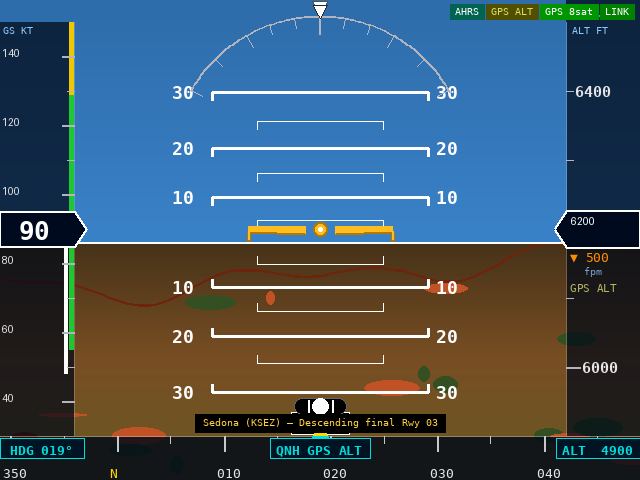
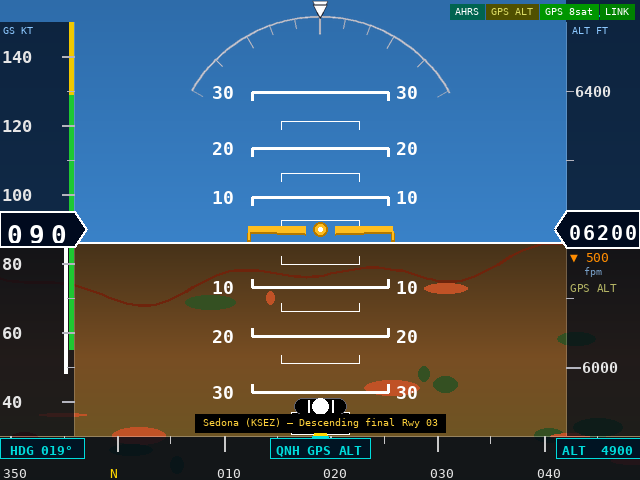
Add rolling-drum readouts, fix pitch ladder width, add AA to arc
- Pitch ladder half-widths: 22%/13% → 14%/8% of AI width (matches GI-275)
- Speed + alt readouts replaced with Veeder-Root rolling-drum function
  - Speed: 3 digits × 22px cells @ 26pt bold
  - Alt: 5 digits × 14px cells @ 20pt bold; units digit animates with speed/alt
- Roll arc (preview): rendered at 2× then LANCZOS-scaled for AA
- Pitch ladder (live): minor lines use pygame.draw.aaline()
- Preview font loading: on-demand cache replaces fixed size list (fixes
  missing 17pt and 24pt falling back to 6pt PIL default)
- All 3 Sedona preview PNGs regenerated

https://claude.ai/code/session_017SH8gTHM3ctk1qfSPqffyG

diff --git a/tools/preview_640x480.py b/tools/preview_640x480.py
@@ -53,23 +53,62 @@ def lerp_color(a, b, t):
     return tuple(int(a[i] + (b[i]-a[i])*t) for i in range(3))
 
 
-def load_fonts():
-    sizes = [10, 11, 13, 14, 15, 16, 18, 20, 22, 26]
-    fonts = {}
-    base = "/usr/share/fonts/truetype/dejavu/DejaVuSansMono"
-    for sz in sizes:
-        for bold in (False, True):
-            suffix = "-Bold" if bold else ""
-            try:
-                fonts[(sz, bold)] = ImageFont.truetype(f"{base}{suffix}.ttf", sz)
-            except Exception:
-                fonts[(sz, bold)] = ImageFont.load_default()
-    return fonts
-
-FNT = load_fonts()
+_fnt_cache: dict = {}
 
 def fnt(size, bold=False):
-    return FNT.get((size, bold), FNT.get((size, False), ImageFont.load_default()))
+    key = (size, bold)
+    if key in _fnt_cache:
+        return _fnt_cache[key]
+    base = "/usr/share/fonts/truetype/dejavu/DejaVuSansMono"
+    suffix = "-Bold" if bold else ""
+    try:
+        _fnt_cache[key] = ImageFont.truetype(f"{base}{suffix}.ttf", size)
+    except Exception:
+        _fnt_cache[key] = ImageFont.load_default()
+    return _fnt_cache[key]
+
+
+def rolling_drum(img, bx, by, bw, bh, value, n_digits, color, font_sz):
+    """
+    Veeder-Root style rolling-drum digit readout.
+    Only the units digit animates continuously; higher digits snap.
+    value: float — fractional part drives unit-digit roll.
+    """
+    char_w = bw // n_digits
+    f = fnt(font_sz, bold=True)
+    try:
+        ref_bbox = f.getbbox("0")
+        ch = ref_bbox[3] - ref_bbox[1]
+        cw_ch = ref_bbox[2] - ref_bbox[0]
+    except Exception:
+        ch = font_sz; cw_ch = font_sz // 2
+
+    col_rgba = color + (255,)
+
+    for col_i in range(n_digits):
+        power = n_digits - 1 - col_i   # 0 = units, 1 = tens, …
+        if power == 0:
+            d_cont = float(value % 10.0)
+        else:
+            d_cont = float((int(value) // (10 ** power)) % 10)
+        d_lo = int(d_cont)
+        frac  = d_cont - d_lo
+        d_hi  = (d_lo + 1) % 10
+
+        scroll = int(frac * bh)
+        tx     = max(0, (char_w - cw_ch) // 2)
+        ty_lo  = (bh - ch) // 2 - scroll
+        ty_hi  = ty_lo + bh
+
+        # Render into a 2× tall cell, then crop to bh (auto-clips scrolled digits)
+        cell   = Image.new('RGBA', (char_w, bh * 2), (0, 0, 0, 0))
+        cd     = ImageDraw.Draw(cell)
+        cd.text((tx, ty_lo), str(d_lo), fill=col_rgba, font=f)
+        cd.text((tx, ty_hi), str(d_hi), fill=col_rgba, font=f)
+
+        cx_pos  = bx + col_i * char_w
+        cropped = cell.crop((0, 0, char_w, bh))
+        img.paste(cropped, (cx_pos, by), cropped)
 
 
 def draw_scene(roll, pitch, hdg, alt, speed, vspeed, ay,
@@ -153,9 +192,10 @@ def draw_scene(roll, pitch, hdg, alt, speed, vspeed, ay,
     # Horizon line
     ai_draw.line([(0, hy), (W*S, hy)], fill=(255,255,255,220), width=2)
 
-    # Pitch ladder — half in display pixels (canvas 1:1 with output)
-    major_half = int(AI_W * 0.22)   # ~108 px
-    minor_half = int(AI_W * 0.13)   # ~64 px
+    # Pitch ladder — half-widths in display pixels
+    # GI-275: major ~14% AI width each side, minor ~8%
+    major_half = int(AI_W * 0.14)   # ~69 px
+    minor_half = int(AI_W * 0.08)   # ~39 px
     fn18 = fnt(18, bold=True)
     for deg in range(-30, 35, 5):
         if deg == 0: continue
@@ -246,8 +286,8 @@ def draw_scene(roll, pitch, hdg, alt, speed, vspeed, ay,
     draw.polygon(pts, fill=(0, 10, 30))
     draw.line(pts + [pts[0]], fill=WHITE, width=2)
     spd_col = RED if speed > VNE else (YELLOW if speed > VNO else WHITE)
-    draw.text((SPD_X+3, TAPE_MID-14), f"{round(speed):3d}",
-              fill=spd_col, font=fnt(26, bold=True))
+    # Rolling drum: 3 digits, bw=66px (22px per cell), 26pt bold
+    rolling_drum(img, SPD_X+4, TAPE_MID-14, 66, 28, speed, 3, spd_col, 26)
 
     # Header
     draw.text((SPD_X+3, TAPE_TOP+2), "GS KT", fill=(140,200,255), font=fnt(10))
@@ -286,8 +326,8 @@ def draw_scene(roll, pitch, hdg, alt, speed, vspeed, ay,
            (ALT_X, by+bh), (ALT_X+ALT_W, by+bh)]
     draw.polygon(pts, fill=(0, 10, 30))
     draw.line(pts + [pts[0]], fill=WHITE, width=2)
-    draw.text((ALT_X+3, TAPE_MID-14), f"{round(alt):5d}",
-              fill=WHITE, font=fnt(24, bold=True))
+    # Rolling drum: 5 digits, bw=70px (14px per cell), 20pt bold
+    rolling_drum(img, ALT_X+2, TAPE_MID-14, 70, 28, alt, 5, WHITE, 20)
 
     # VSI
     arrow = "\u25b2" if vspeed > 30 else ("\u25bc" if vspeed < -30 else "\u2014")
@@ -341,52 +381,63 @@ def draw_scene(roll, pitch, hdg, alt, speed, vspeed, ay,
     # Triangle pointer above heading box
     draw.polygon([(CX-7, HDG_Y-1), (CX+7, HDG_Y-1), (CX, HDG_Y-11)], fill=YELLOW)
 
-    # ── 6. ROLL ARC ──────────────────────────────────────────────────────────
-    cx2, cy2 = CX, ROLL_CY
-    # Arc
-    for a in range(-150, -29):
-        a1, a2 = a*DEG, (a+1)*DEG
-        x1,y1 = int(cx2+ROLL_R*math.cos(a1)), int(cy2+ROLL_R*math.sin(a1))
-        x2,y2 = int(cx2+ROLL_R*math.cos(a2)), int(cy2+ROLL_R*math.sin(a2))
-        draw.line([(x1,y1),(x2,y2)], fill=LTGREY, width=2)
+    # ── 6. ROLL ARC (rendered at 2× for anti-aliasing) ───────────────────────
+    # Drawing at 2× then scaling down via LANCZOS gives smooth arc and shapes.
+    ARC_S = 2
+    arc_img = Image.new('RGBA', (W * ARC_S, H * ARC_S), (0, 0, 0, 0))
+    arc_d   = ImageDraw.Draw(arc_img)
+
+    def a(v): return int(round(v * ARC_S))
+    acx, acy = a(CX), a(ROLL_CY)
+
+    # Arc from -60° to +60° bank (screen angles -150° to -30°)
+    for ang in range(-150, -29):
+        a1, a2 = ang * DEG, (ang + 1) * DEG
+        arc_d.line([
+            (acx + int(a(ROLL_R) * math.cos(a1)), acy + int(a(ROLL_R) * math.sin(a1))),
+            (acx + int(a(ROLL_R) * math.cos(a2)), acy + int(a(ROLL_R) * math.sin(a2))),
+        ], fill=LTGREY + (255,), width=a(2))
 
     # Tick marks
-    for deg2, l2 in [(0,18),(10,10),(20,10),(30,14),(-10,10),(-20,10),(-30,14),
-                      (45,10),(-45,10),(60,12),(-60,12)]:
-        ang = (-90+deg2)*DEG
-        x1=int(cx2+(ROLL_R-l2)*math.cos(ang)); y1=int(cy2+(ROLL_R-l2)*math.sin(ang))
-        x2=int(cx2+ROLL_R*math.cos(ang));      y2=int(cy2+ROLL_R*math.sin(ang))
-        draw.line([(x1,y1),(x2,y2)], fill=LTGREY, width=2 if deg2==0 else 1)
+    for deg2, l2 in [(0, 18), (10, 10), (20, 10), (30, 14),
+                     (-10, 10), (-20, 10), (-30, 14),
+                     (45, 10), (-45, 10), (60, 12), (-60, 12)]:
+        ang2 = (-90 + deg2) * DEG
+        arc_d.line([
+            (acx + int((a(ROLL_R) - a(l2)) * math.cos(ang2)),
+             acy + int((a(ROLL_R) - a(l2)) * math.sin(ang2))),
+            (acx + int( a(ROLL_R)          * math.cos(ang2)),
+             acy + int( a(ROLL_R)          * math.sin(ang2))),
+        ], fill=LTGREY + (255,), width=a(2) if deg2 == 0 else a(1))
 
-    # Doghouse pentagon helper
-    def doghouse_pts(ang_rad, r, size=11):
-        out_x = math.cos(ang_rad); out_y = math.sin(ang_rad)
-        perp_x = -out_y;           perp_y =  out_x
-        base_r = r + size*1.3;  roof_r = r + size*0.6
-        half_w = size*0.7;      roof_hw = size*0.35
+    # Pentagon doghouse helper at 2× scale
+    def doghouse_pts_2x(ang_rad, r, size=11):
+        ox = math.cos(ang_rad); oy = math.sin(ang_rad)
+        px = -oy;               py =  ox
+        br = r + size * 1.3;  rr = r + size * 0.6
+        hw = size * 0.7;      rh = size * 0.35
         return [
-            (int(cx2 + base_r*out_x - half_w*perp_x),
-             int(cy2 + base_r*out_y - half_w*perp_y)),
-            (int(cx2 + roof_r*out_x - roof_hw*perp_x),
-             int(cy2 + roof_r*out_y - roof_hw*perp_y)),
-            (int(cx2 + r*out_x), int(cy2 + r*out_y)),   # tip (points inward)
-            (int(cx2 + roof_r*out_x + roof_hw*perp_x),
-             int(cy2 + roof_r*out_y + roof_hw*perp_y)),
-            (int(cx2 + base_r*out_x + half_w*perp_x),
-             int(cy2 + base_r*out_y + half_w*perp_y)),
+            (int(acx + a(br)*ox - a(hw)*px), int(acy + a(br)*oy - a(hw)*py)),
+            (int(acx + a(rr)*ox - a(rh)*px), int(acy + a(rr)*oy - a(rh)*py)),
+            (int(acx + a(r)*ox),              int(acy + a(r)*oy)),
+            (int(acx + a(rr)*ox + a(rh)*px), int(acy + a(rr)*oy + a(rh)*py)),
+            (int(acx + a(br)*ox + a(hw)*px), int(acy + a(br)*oy + a(hw)*py)),
         ]
 
-    # Fixed zero-bank doghouse (white, at top of arc)
-    zero_ang = -math.pi / 2
-    dh0 = doghouse_pts(zero_ang, ROLL_R, size=11)
-    draw.polygon(dh0, fill=WHITE)
-    draw.line(dh0 + [dh0[0]], fill=(80,80,90), width=1)
+    # Fixed zero-bank doghouse
+    dh0 = doghouse_pts_2x(-math.pi / 2, ROLL_R, size=11)
+    arc_d.polygon(dh0, fill=WHITE + (255,))
+    arc_d.line(dh0 + [dh0[0]], fill=(80, 80, 90, 255), width=a(1))
 
-    # Moving roll pointer doghouse (white)
-    ra = (-90 - roll) * DEG
-    dh1 = doghouse_pts(ra, ROLL_R - 2, size=10)
-    draw.polygon(dh1, fill=WHITE)
-    draw.line(dh1 + [dh1[0]], fill=(40,40,50), width=1)
+    # Moving roll pointer doghouse
+    dh1 = doghouse_pts_2x((-90 - roll) * DEG, ROLL_R - 2, size=10)
+    arc_d.polygon(dh1, fill=WHITE + (255,))
+    arc_d.line(dh1 + [dh1[0]], fill=(40, 40, 50, 255), width=a(1))
+
+    # Scale down with Lanczos (anti-aliasing via supersampling)
+    arc_1x = arc_img.resize((W, H), Image.LANCZOS)
+    img = Image.alpha_composite(img.convert('RGBA'), arc_1x).convert('RGB')
+    draw = ImageDraw.Draw(img)
 
     # ── 7. AIRCRAFT SYMBOL (shaded amber, GI-275 style) ──────────────────────
     AMBER      = (255, 190,  30)

diff --git a/pi_display/pfd.py b/pi_display/pfd.py
@@ -128,6 +128,42 @@ def _text(surf, txt, size, colour, cx=None, cy=None, x=None, y=None, bold=False)
     return img.get_width()
 
 
+def _rolling_drum(surf, bx, by, bw, bh, value, n_digits, color, font_sz):
+    """
+    Veeder-Root style rolling-drum digit readout for pygame.
+    Only the units digit animates continuously; higher digits snap.
+    value: float — fractional part drives the unit-digit roll.
+    """
+    char_w = bw // n_digits
+    f = _get_font(font_sz, bold=True)
+
+    for col_i in range(n_digits):
+        power = n_digits - 1 - col_i   # 0 = units, 1 = tens, …
+        if power == 0:
+            d_cont = float(value % 10.0)
+        else:
+            d_cont = float((int(value) // (10 ** power)) % 10)
+        d_lo = int(d_cont)
+        frac  = d_cont - d_lo
+        d_hi  = (d_lo + 1) % 10
+
+        cx = bx + col_i * char_w
+        # Cell surface — pygame clips blit content to bounds automatically
+        cell = pygame.Surface((char_w, bh), pygame.SRCALPHA)
+
+        img_lo = f.render(str(d_lo), True, color)
+        img_hi = f.render(str(d_hi), True, color)
+
+        scroll  = int(frac * bh)
+        tx_lo   = max(0, (char_w - img_lo.get_width()) // 2)
+        ty_base = max(0, (bh    - img_lo.get_height()) // 2)
+
+        cell.blit(img_lo, (tx_lo, ty_base - scroll))
+        cell.blit(img_hi, (max(0, (char_w - img_hi.get_width()) // 2),
+                            ty_base - scroll + bh))
+        surf.blit(cell, (cx, by))
+
+
 def lerp(a, b, t):
     return a + (b - a) * max(0.0, min(1.0, t))
 
@@ -246,10 +282,10 @@ def draw_pitch_ladder(surf, ai_rect, pitch, roll):
 
     pitch_px = int(pitch * px_per_deg / 10.0)   # 10 px / degree approx
 
-    # Line half-widths based on AI width, NOT canvas width.
-    # GI-275 style: major ~22% AI width each side, minor ~13%.
-    major_half = int(aw * 0.22)   # ~108 px for AI_W=492
-    minor_half = int(aw * 0.13)   # ~64 px
+    # Line half-widths based on AI width.
+    # GI-275 style: major ~14% each side, minor ~8%.
+    major_half = int(aw * 0.14)   # ~69 px
+    minor_half = int(aw * 0.08)   # ~39 px
 
     for deg in range(-30, 35, 5):
         if deg == 0:
@@ -259,15 +295,15 @@ def draw_pitch_ladder(surf, ai_rect, pitch, roll):
             continue
         major = (deg % 10 == 0)
         half  = major_half if major else minor_half
-        lw    = 2 if major else 1
         col   = (255, 255, 255, 220)
-        pygame.draw.line(canvas, col, (ccx - half, row_y), (ccx + half, row_y), lw)
+        if major:
+            pygame.draw.line(canvas, col, (ccx - half, row_y), (ccx + half, row_y), 2)
+        else:
+            pygame.draw.aaline(canvas, col, (ccx - half, row_y), (ccx + half, row_y))
         # End tick marks (inward — up for positive pitch, down for negative)
         tick_dir = 8 if deg > 0 else -8
-        pygame.draw.line(canvas, col, (ccx - half, row_y),
-                         (ccx - half, row_y + tick_dir), lw)
-        pygame.draw.line(canvas, col, (ccx + half, row_y),
-                         (ccx + half, row_y + tick_dir), lw)
+        pygame.draw.aaline(canvas, col, (ccx - half, row_y), (ccx - half, row_y + tick_dir))
+        pygame.draw.aaline(canvas, col, (ccx + half, row_y), (ccx + half, row_y + tick_dir))
         # Degree labels at major lines
         if major:
             lbl = str(abs(deg))
@@ -494,8 +530,8 @@ def draw_speed_tape(surf, speed, hdg_bug_spd=None):
     pygame.draw.polygon(surf, (0, 10, 30), pts)
     pygame.draw.polygon(surf, WHITE, pts, 2)
     spd_col = RED if speed > VNE else (YELLOW if speed > VNO else WHITE)
-    _text(surf, f"{round(speed):3d}", 26, spd_col, bold=True,
-          cx=SPD_X + SPD_W // 2 - 2, cy=TAPE_MID)
+    # Rolling drum: 3 digits, 22px/cell, 26pt bold
+    _rolling_drum(surf, SPD_X + 4, TAPE_MID - 14, 66, 28, speed, 3, spd_col, 26)
 
     # Header label
     _text(surf, "GS KT", 10, (140, 200, 255), x=SPD_X + 3, y=TAPE_TOP + 2)
@@ -549,8 +585,8 @@ def draw_alt_tape(surf, alt, vspeed, baro_hpa, baro_src, alt_bug=None):
            (ALT_X, by + bh), (ALT_X + ALT_W, by + bh)]
     pygame.draw.polygon(surf, (0, 10, 30), pts)
     pygame.draw.polygon(surf, WHITE, pts, 2)
-    _text(surf, f"{round(alt):5d}", 24, WHITE, bold=True,
-          cx=ALT_X + ALT_W // 2 + 2, cy=TAPE_MID)
+    # Rolling drum: 5 digits, 14px/cell, 20pt bold
+    _rolling_drum(surf, ALT_X + 2, TAPE_MID - 14, 70, 28, alt, 5, WHITE, 20)
 
     # VSI (vertical speed)
     arrow = "▲" if vspeed > 30 else ("▼" if vspeed < -30 else "—")
